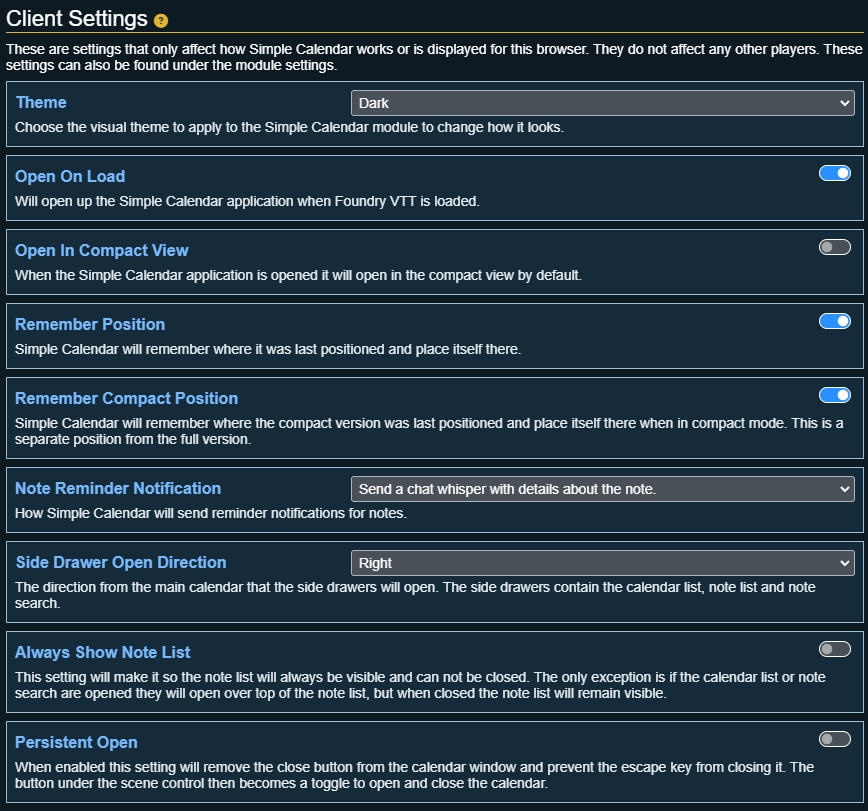
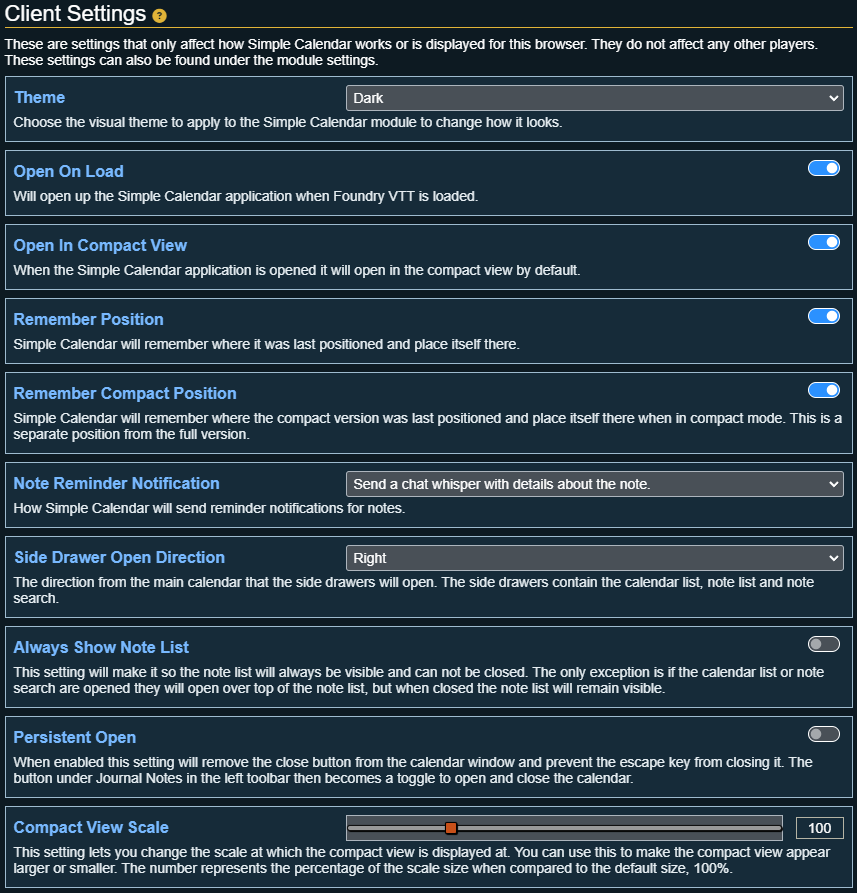
Changed the update frequency to support floats. Updated the compact view to display up to 5 moons before collapsing them. Added a new client setting "Compact view scale" which will apply a css scale value to the compact display. Fixed an issue where the DateTimeChange hook would fire more than once 

diff --git a/src/classes/calendar/index.ts b/src/classes/calendar/index.ts
@@ -1124,15 +1124,17 @@ export default class Calendar extends ConfigurationItemBase{
         if(PF2E.isPF2E && this.generalSettings.pf2eSync){
             newTime += PF2E.getWorldCreateSeconds(this);
         }
-
         if(changeAmount !== 0){
             // If the tracking rules are for self or mixed and the clock is running then we make the change.
             if((this.generalSettings.gameWorldTimeIntegration === GameWorldTimeIntegrations.Self || this.generalSettings.gameWorldTimeIntegration === GameWorldTimeIntegrations.Mixed) && this.timeKeeper.getStatus() === TimeKeeperStatus.Started){
-                const parsedDate = this.secondsToDate(newTime);
-                this.setDateTime(parsedDate, {updateApp: (this.time.updateFrequency * this.time.gameTimeRatio) !== changeAmount, sync: false, save: false, bypassPermissionCheck: true});
-                Renderer.Clock.UpdateListener(`sc_${this.id}_clock`, this.timeKeeper.getStatus());
+                //If we didn't request the change (we are running the clock) we need to update the internal time to match the new world time
+                if(!this.timeChangeTriggered){
+                    const parsedDate = this.secondsToDate(newTime);
+                    this.setDateTime(parsedDate, {updateApp: (this.time.updateFrequency * this.time.gameTimeRatio) !== changeAmount, sync: false, save: false, bypassPermissionCheck: true});
+                    Renderer.Clock.UpdateListener(`sc_${this.id}_clock`, this.timeKeeper.getStatus());
+                }
             }
-            // If the tracking rules are for self only and we requested the change OR the change came from a combat turn change
+            // If the tracking rules are for self only, and we requested the change OR the change came from a combat turn change
             else if((this.generalSettings.gameWorldTimeIntegration=== GameWorldTimeIntegrations.Self || this.generalSettings.gameWorldTimeIntegration === GameWorldTimeIntegrations.Mixed) && (this.timeChangeTriggered || this.combatChangeTriggered)){
                 //If we didn't request the change (from a combat change) we need to update the internal time to match the new world time
                 if(!this.timeChangeTriggered){
@@ -1142,8 +1144,8 @@ export default class Calendar extends ConfigurationItemBase{
                     this.setDateTime(parsedDate, {updateApp: false, sync: false, save: GameSettings.IsGm() && SC.primary});
                 }
             }
-                // If we didn't (locally) request this change then parse the new time into years, months, days and seconds and set those values
-            // This covers other modules/built in features updating the world time and Simple Calendar updating to reflect those changes
+            // If we didn't (locally) request this change then parse the new time into years, months, days and seconds and set those values
+            // This covers other modules/built-in features updating the world time and Simple Calendar updating to reflect those changes
             else if((this.generalSettings.gameWorldTimeIntegration === GameWorldTimeIntegrations.ThirdParty || this.generalSettings.gameWorldTimeIntegration === GameWorldTimeIntegrations.Mixed) && !this.timeChangeTriggered){
                 const parsedDate = this.secondsToDate(newTime);
                 // If the current player is the GM then we need to save this new value to the database
@@ -1169,6 +1171,7 @@ export default class Calendar extends ConfigurationItemBase{
         if(roundSeconds !== 0 && roundsPassed !== 0){
             // If the current player is the GM then we need to save this new value to the database
             // Since the current date is updated this will trigger an update on all players as well
+            console.log('processOwnCombatRoundTime');
             this.changeDateTime({seconds: roundSeconds * roundsPassed}, {updateApp: false, sync: true, save: GameSettings.IsGm() && SC.primary})
         }
     }

diff --git a/src/classes/s-c-controller.ts b/src/classes/s-c-controller.ts
@@ -10,7 +10,7 @@ import {
     TimeKeeperStatus
 } from "../constants";
 import {Logger} from "./logging";
-import {CalManager, MainApplication, NManager} from "./index";
+import {CalManager, MainApplication, NManager, SC} from "./index";
 import ConfigurationApp from "./applications/configuration-app";
 import MainApp from "./applications/main-app";
 import UserPermissions from "./configuration/user-permissions";
@@ -62,7 +62,8 @@ export default class SCController {
             noteReminderNotification: NoteReminderNotificationType.whisper,
             sideDrawerDirection: 'sc-right',
             alwaysShowNoteList: false,
-            persistentOpen: false
+            persistentOpen: false,
+            compactViewScale: 100
         };
         this.globalConfiguration = {
             id: '',
@@ -131,6 +132,19 @@ export default class SCController {
         }
     }
 
+    public CompactScaleChange() {
+        this.clientSettings.compactViewScale = GameSettings.GetNumericSettings(SettingNames.CompactViewScale);
+        const mainApp = document.getElementById(MainApp.appWindowId);
+        if(mainApp){
+            for(let i = mainApp.classList.length - 1; i >= 0; i--){
+                if(mainApp.classList[i].startsWith('sc-scale')){
+                    mainApp.classList.remove(mainApp.classList[i]);
+                }
+            }
+            mainApp.classList.add(`sc-scale-${SC.clientSettings.compactViewScale}`);
+        }
+    }
+
     /**
      * When the side drawer direction client setting has changed re-render the main application.
      */
@@ -180,6 +194,7 @@ export default class SCController {
         this.clientSettings.sideDrawerDirection = GameSettings.GetStringSettings(SettingNames.NoteListOpenDirection);
         this.clientSettings.alwaysShowNoteList = GameSettings.GetBooleanSettings(SettingNames.AlwaysShowNoteList);
         this.clientSettings.persistentOpen = GameSettings.GetBooleanSettings(SettingNames.PersistentOpen);
+        this.clientSettings.compactViewScale = GameSettings.GetNumericSettings(SettingNames.CompactViewScale);
     }
 
     /**
@@ -218,6 +233,7 @@ export default class SCController {
             GameSettings.SaveStringSetting(SettingNames.NoteListOpenDirection, clientConfig.sideDrawerDirection, false).catch(Logger.error);
             GameSettings.SaveBooleanSetting(SettingNames.AlwaysShowNoteList, clientConfig.alwaysShowNoteList, false).catch(Logger.error);
             GameSettings.SaveBooleanSetting(SettingNames.PersistentOpen, clientConfig.persistentOpen, false).catch(Logger.error);
+            GameSettings.SaveNumericSetting(SettingNames.CompactViewScale, clientConfig.compactViewScale, false).catch(Logger.error);
             //Save the global configuration (triggers the load function)
             GameSettings.SaveObjectSetting(SettingNames.GlobalConfiguration, gc)
                 .then(() => GameSockets.emit({type: SocketTypes.mainAppUpdate, data: {}}))

diff --git a/src/classes/applications/configuration-app.ts b/src/classes/applications/configuration-app.ts
@@ -89,7 +89,8 @@ export default class ConfigurationApp extends FormApplication {
         noteReminderNotification: NoteReminderNotificationType.whisper,
         sideDrawerDirection: 'sc-right',
         alwaysShowNoteList: false,
-        persistentOpen: false
+        persistentOpen: false,
+        compactViewScale: 100
     };
     /**
      * A list of different states for the UI
@@ -247,7 +248,8 @@ export default class ConfigurationApp extends FormApplication {
                     'sc-down': "FSC.Down"
                 },
                 alwaysShowNoteList: this.clientSettings.alwaysShowNoteList,
-                persistentOpen: this.clientSettings.persistentOpen
+                persistentOpen: this.clientSettings.persistentOpen,
+                compactViewScale: this.clientSettings.compactViewScale
             },
             combatPauseRules: {
                 'active': 'FSC.Configuration.CombatPauseRule.Active',
@@ -677,6 +679,7 @@ export default class ConfigurationApp extends FormApplication {
             this.clientSettings.sideDrawerDirection = getTextInputValue('#scSideDrawerDirection', 'sc-right', this.appWindow);
             this.clientSettings.alwaysShowNoteList = getCheckBoxInputValue('#scAlwaysOpenNoteList', false, this.appWindow);
             this.clientSettings.persistentOpen = getCheckBoxInputValue('#scPersistentOpen', false, this.appWindow);
+            this.clientSettings.compactViewScale = getNumericInputValue('input[name="scCompactViewScale"]', 100, false, this.appWindow) || 100;
 
             //----------------------------------
             // Global Config: Permissions
@@ -854,7 +857,7 @@ export default class ConfigurationApp extends FormApplication {
             (<Calendar>this.object).time.secondsInMinute = <number>getNumericInputValue('#scSecondsInMinute', 60, false, this.appWindow);
             (<Calendar>this.object).generalSettings.showClock = getCheckBoxInputValue('#scShowClock', true, this.appWindow);
             (<Calendar>this.object).time.gameTimeRatio = <number>getNumericInputValue('#scGameTimeRatio', 1, true, this.appWindow);
-            (<Calendar>this.object).time.updateFrequency = <number>getNumericInputValue('#scTimeUpdateFrequency', 1, false, this.appWindow);
+            (<Calendar>this.object).time.updateFrequency = <number>getNumericInputValue('#scTimeUpdateFrequency', 1, true, this.appWindow);
             (<Calendar>this.object).time.unifyGameAndClockPause = getCheckBoxInputValue('#scUnifyClockWithFoundryPause', false, this.appWindow);
 
             if((<Calendar>this.object).time.hoursInDay <= 0){(<Calendar>this.object).time.hoursInDay = 1;}

diff --git a/src/classes/applications/main-app.ts b/src/classes/applications/main-app.ts
@@ -1,7 +1,7 @@
 import {Logger} from "../logging";
 import {GameSettings} from "../foundry-interfacing/game-settings";
 import {
-    CalendarClickEvents, CompactViewDateTimeControlDisplay,
+    CalendarClickEvents,
     DateTimeChangeSocketTypes,
     DateTimeUnits,
     GameWorldTimeIntegrations,
@@ -226,7 +226,13 @@ export default class MainApp extends FormApplication{
             }
 
             const persistentClass = SC.clientSettings.persistentOpen? "fsc-persistent" : "";
-            options.classes = ["simple-calendar", GetThemeName(), persistentClass];
+
+            let scaleClass = '';
+            if(this.uiElementStates.compactView){
+                scaleClass = `sc-scale-${SC.clientSettings.compactViewScale}`;
+            }
+
+            options.classes = ["simple-calendar", GetThemeName(), persistentClass, scaleClass];
             return super.render(true, options);
         }
         return;
@@ -881,12 +887,10 @@ export default class MainApp extends FormApplication{
      */
     public dateControlApply(e: Event){
         if(canUser((<Game>game).user, SC.globalConfiguration.permissions.changeDateTime)){
-            let validSelection = false;
             const selectedYear = this.activeCalendar.year.selectedYear;
             const selectedMonthDayIndex = this.activeCalendar.getMonthAndDayIndex('selected');
             const selectedMonth = this.activeCalendar.getMonth('selected');
             if(selectedMonth){
-                validSelection = true;
                 if(selectedYear !== this.activeCalendar.year.visibleYear || !selectedMonth.visible){
                     const utsd = new Dialog({
                         title: GameSettings.Localize('FSC.SetCurrentDateDialog.Title'),

diff --git a/src/classes/s-c-controller.test.ts b/src/classes/s-c-controller.test.ts
@@ -106,6 +106,18 @@ describe('SCController Tests', () => {
         expect(mainApp.classList.contains('fsc-persistent')).toBe(true);
     });
 
+    test("Compact Scale Change", () => {
+        const mainApp = document.createElement('div');
+        jest.spyOn(GameSettings, "GetNumericSettings").mockReturnValueOnce(120).mockReturnValue(200);
+        jest.spyOn(document, "getElementById").mockReturnValue(mainApp);
+
+        SC.CompactScaleChange();
+        expect(mainApp.classList.contains('sc-scale-120')).toBe(true);
+        SC.CompactScaleChange();
+        expect(mainApp.classList.contains('sc-scale-120')).toBe(false);
+        expect(mainApp.classList.contains('sc-scale-200')).toBe(true);
+    });
+
     test('Side Drawer Direction Change', () => {
         jest.spyOn(MainApplication, 'render').mockImplementation(() => {});
         SCController.SideDrawerDirectionChange();
@@ -193,7 +205,8 @@ describe('SCController Tests', () => {
             noteReminderNotification: NoteReminderNotificationType.whisper,
             sideDrawerDirection: 'sc-right',
             alwaysShowNoteList: false,
-            persistentOpen: false
+            persistentOpen: false,
+            compactViewScale: 100
         });
         expect(CalManager.saveCalendars).toHaveBeenCalledTimes(2);
         expect(GameSettings.SaveStringSetting).toHaveBeenCalledTimes(3);

diff --git a/src/classes/foundry-interfacing/game-settings.test.ts b/src/classes/foundry-interfacing/game-settings.test.ts
@@ -97,6 +97,11 @@ describe('Game Settings Class Tests', () => {
         expect(GameSettings.GetStringSettings(SettingNames.ActiveCalendar)).toBe('');
     });
 
+    test('Get Numeric Settings', () => {
+        (<Mock>(<Game>game).settings.get).mockReturnValueOnce(1);
+        expect(GameSettings.GetNumericSettings(SettingNames.ActiveCalendar)).toBe(1);
+    });
+
     test('Save Boolean Setting', async () => {
         expect(await GameSettings.SaveBooleanSetting(SettingNames.ActiveCalendar, false)).toBe(false);
         expect(await GameSettings.SaveBooleanSetting(SettingNames.ActiveCalendar, false, false)).toBe(true);
@@ -111,6 +116,14 @@ describe('Game Settings Class Tests', () => {
         //@ts-ignore
         game.user.isGM = true;
         expect(await GameSettings.SaveStringSetting(SettingNames.ActiveCalendar, '')).toBe(true);
+    });
+
+    test('Save Numeric Setting', async () => {
+        expect(await GameSettings.SaveNumericSetting(SettingNames.ActiveCalendar, 1)).toBe(false);
+        expect(await GameSettings.SaveNumericSetting(SettingNames.ActiveCalendar, 1, false)).toBe(true);
+        //@ts-ignore
+        game.user.isGM = true;
+        expect(await GameSettings.SaveNumericSetting(SettingNames.ActiveCalendar, 1)).toBe(true);
     });
 
     test('Save Object Setting', async () => {

diff --git a/src/classes/foundry-interfacing/game-settings.ts b/src/classes/foundry-interfacing/game-settings.ts
@@ -88,6 +88,14 @@ export class GameSettings {
         return <string>(<Game>game).settings.get(ModuleName, setting);
     }
 
+    /**
+     * Will return the value for the passed in number setting
+     * @param {SettingNames} setting The name of the setting to get
+     */
+    static GetNumericSettings(setting: SettingNames | string): number{
+        return <number>(<Game>game).settings.get(ModuleName, setting);
+    }
+
     static async SaveBooleanSetting(setting: SettingNames, data: boolean, checkIfGM: boolean = true): Promise<boolean> {
         let save = false;
         if(checkIfGM){
@@ -117,6 +125,22 @@ export class GameSettings {
         }
         return false;
     }
+
+    static async SaveNumericSetting(setting: SettingNames | string, data: number, checkIfGM: boolean = true): Promise<boolean> {
+        let save = false;
+        if(checkIfGM){
+            if(this.IsGm()){
+                save = true;
+            }
+        } else {
+            save = true;
+        }
+        if(save){
+            return await (<Game>game).settings.set(ModuleName, setting, data).then(() => {return true;});
+        }
+        return false;
+    }
+
 
     /**
      * Save the passed in object to the passed in setting

diff --git a/src/styles/scaling.scss b/src/styles/scaling.scss
@@ -9,3 +9,48 @@
     }
   }
 }
+
+.simple-calendar.fsc-compact-view{
+  &.sc-scale-70{
+    transform: scale(0.7);
+  }
+  &.sc-scale-80{
+    transform: scale(0.8);
+  }
+  &.sc-scale-90{
+    transform: scale(0.9);
+  }
+  &.sc-scale-110{
+    transform: scale(1.1);
+  }
+  &.sc-scale-110{
+    transform: scale(1.1);
+  }
+  &.sc-scale-120{
+    transform: scale(1.2);
+  }
+  &.sc-scale-130{
+    transform: scale(1.3);
+  }
+  &.sc-scale-140{
+    transform: scale(1.4);
+  }
+  &.sc-scale-150{
+    transform: scale(1.5);
+  }
+  &.sc-scale-160{
+    transform: scale(1.6);
+  }
+  &.sc-scale-170{
+    transform: scale(1.7);
+  }
+  &.sc-scale-180{
+    transform: scale(1.8);
+  }
+  &.sc-scale-190{
+    transform: scale(1.9);
+  }
+  &.sc-scale-200{
+    transform: scale(2);
+  }
+}

diff --git a/src/classes/foundry-interfacing/game-settings-registration.ts b/src/classes/foundry-interfacing/game-settings-registration.ts
@@ -127,6 +127,21 @@ export default class GameSettingsRegistration{
             default: false,
             onChange: SC.PersistenceChange.bind(SC)
         });
+        (<Game>game).settings.register(ModuleName, SettingNames.CompactViewScale, {
+            name: "FSC.Configuration.Client.CompactViewScale.Title",
+            hint: "FSC.Configuration.Client.CompactViewScale.Description",
+            scope: "client",
+            config: true,
+            type: Number,
+            // @ts-ignore
+            range: {
+                min: 70,
+                max: 200,
+                step: 10
+            },
+            default: 100,
+            onChange: SC.CompactScaleChange.bind(SC)
+        });
 
         // -------------------
         // Configuration Button

diff --git a/src/classes/applications/configuration-app.test.ts b/src/classes/applications/configuration-app.test.ts
@@ -439,6 +439,8 @@ describe('Configuration App Class Tests', () => {
         //@ts-ignore
         jest.spyOn(ca.appWindow, 'querySelectorAll').mockReturnValueOnce([compcatControlDisplay]).mockReturnValueOnce([yearName]).mockReturnValueOnce([month]).mockReturnValueOnce([weekday]).mockReturnValueOnce([month]).mockReturnValueOnce([season]).mockReturnValueOnce([moon]).mockReturnValueOnce([noteCategory]);
 
+        jest.spyOn(InputUtilities, 'getNumericInputValue').mockReturnValue(0);
+
         //@ts-ignore
         ca.writeInputValuesToObjects();
 

diff --git a/src/classes/time/time-keeper.ts b/src/classes/time/time-keeper.ts
@@ -161,7 +161,6 @@ export default class TimeKeeper{
                 if (GameSettings.IsGm() && SC.primary && activeCalendar.generalSettings.gameWorldTimeIntegration === GameWorldTimeIntegrations.None) {
                     GameSockets.emit(<SimpleCalendar.SimpleCalendarSocket.Data>{ type: SocketTypes.clock, data: this.status }).catch(Logger.error);
                 }
-                Hook.emit(SimpleCalendarHooks.DateTimeChange, activeCalendar, changeAmount);
                 this.callListeners();
             }
         }

diff --git a/src/classes/foundry-interfacing/game-settings-registration.test.ts b/src/classes/foundry-interfacing/game-settings-registration.test.ts
@@ -22,6 +22,6 @@ describe('Game Settings Registration Class Tests', () => {
     test('Register Settings', () => {
         GameSettingsRegistration.Register();
         expect((<Game>game).settings.registerMenu).toHaveBeenCalledTimes(2);
-        expect((<Game>game).settings.register).toHaveBeenCalledTimes(27);
+        expect((<Game>game).settings.register).toHaveBeenCalledTimes(28);
     });
 });
